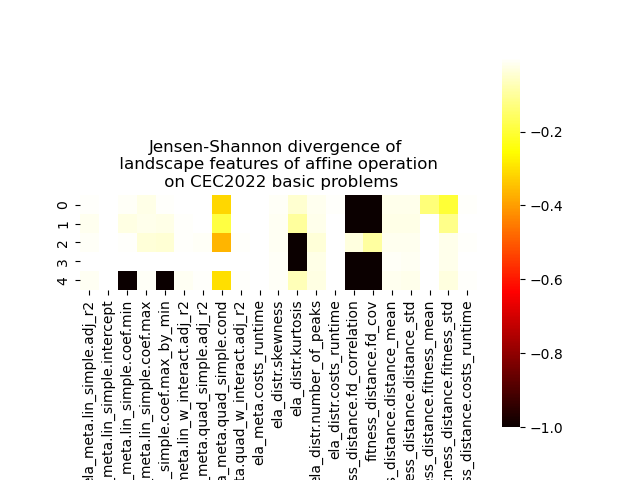
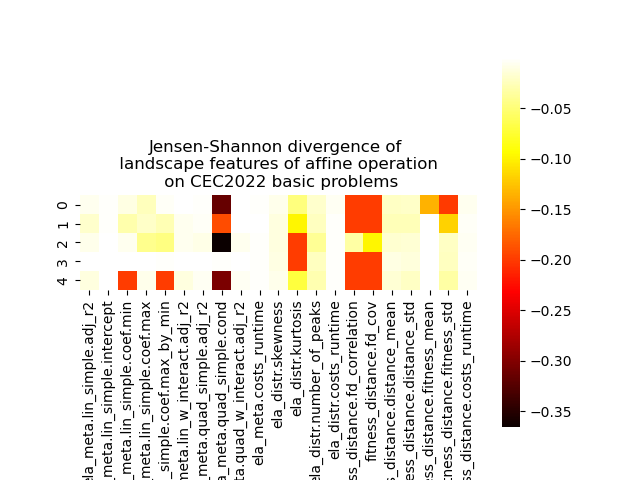
adjust results

diff --git a/scripts/similarity.py b/scripts/similarity.py
@@ -29,7 +29,7 @@ for i in range(records_np.shape[1]-2):
         if records.columns[i+2] not in keys:
             keys += [records.columns[i+2]]
         if math.isinf(dist):
-            values[j] += [-1]
+            values[j] += [-0.2]
         else:
             values[j] += [-dist]
         if math.isinf(dist):
